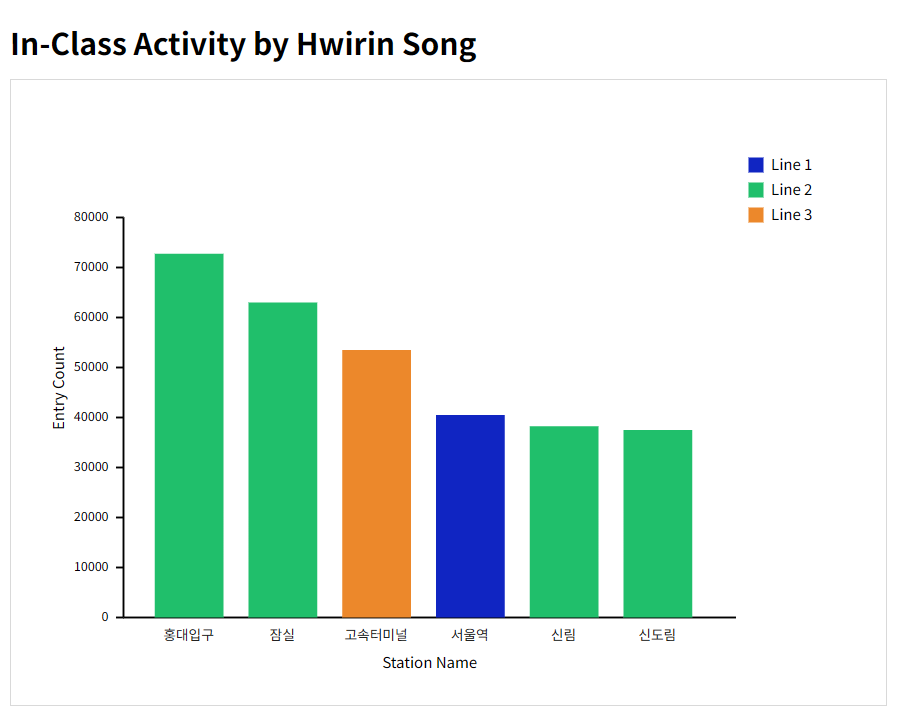
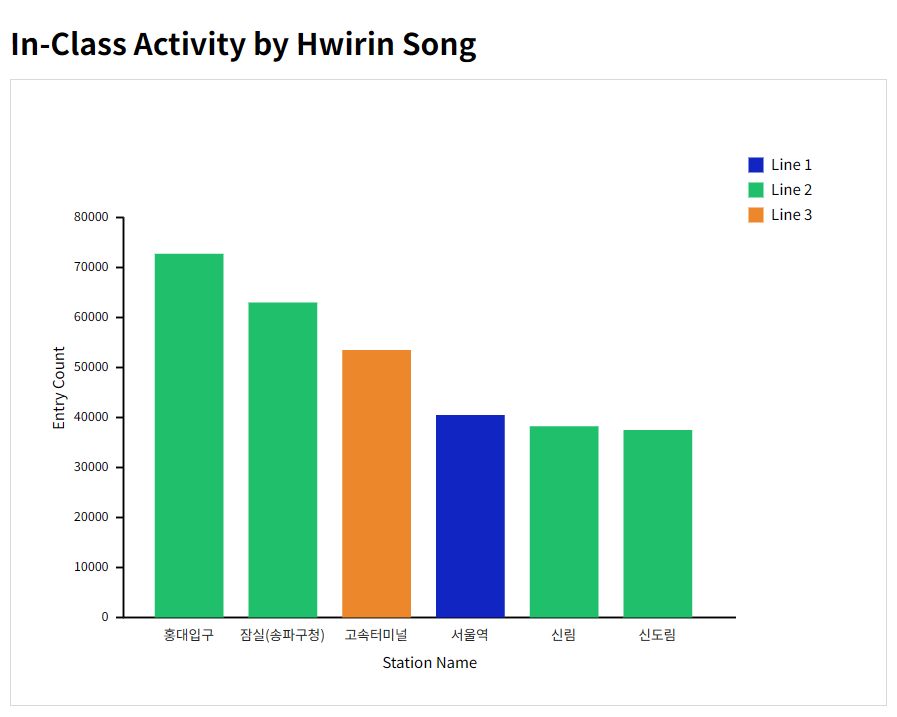
1724

diff --git a/submission.html b/submission.html
@@ -101,7 +101,7 @@
 
 				<g class="bar-group">
 					<rect class="bar line2" x="170" y="128" width="55" height="252"></rect>
-					<text class="station-label" x="197" y="398">잠실</text>
+					<text class="station-label" x="197" y="398">잠실(송파구청)</text>
 				</g>
 
 				<g class="bar-group">
